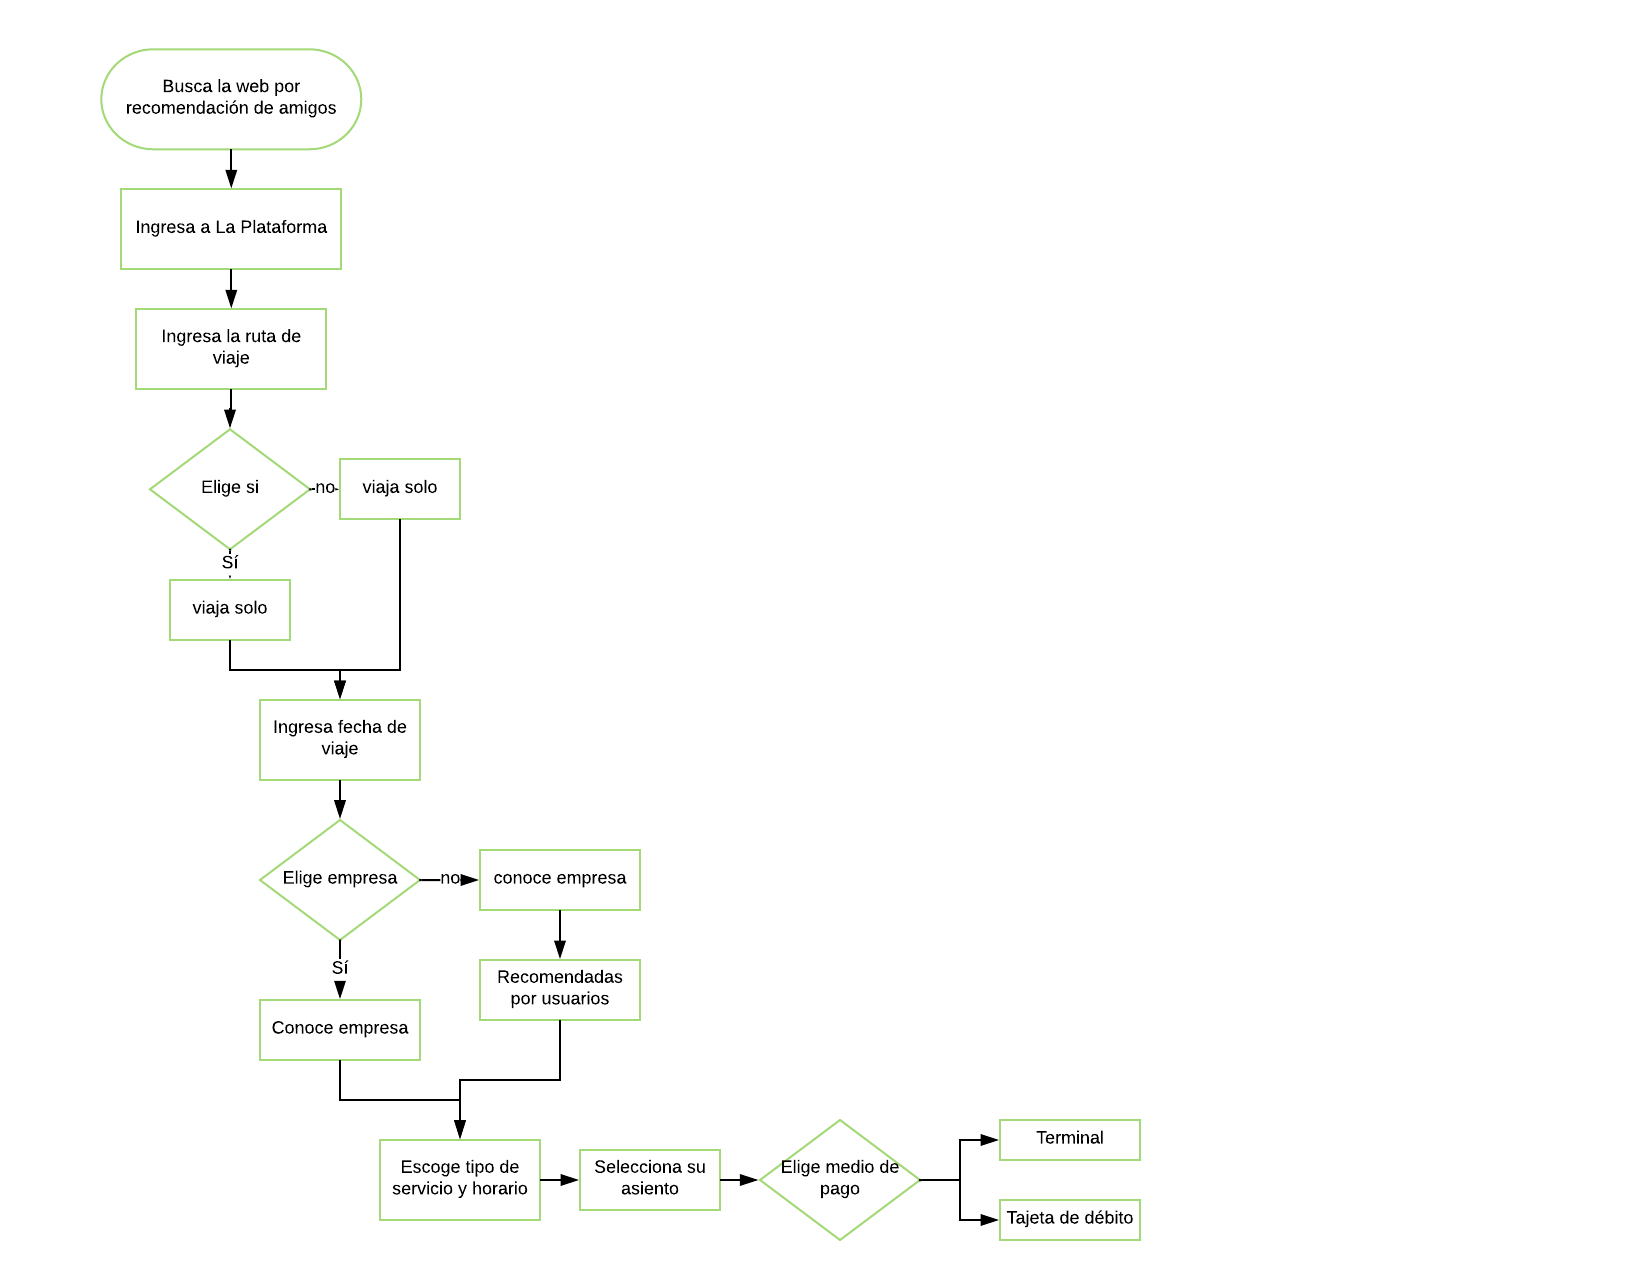
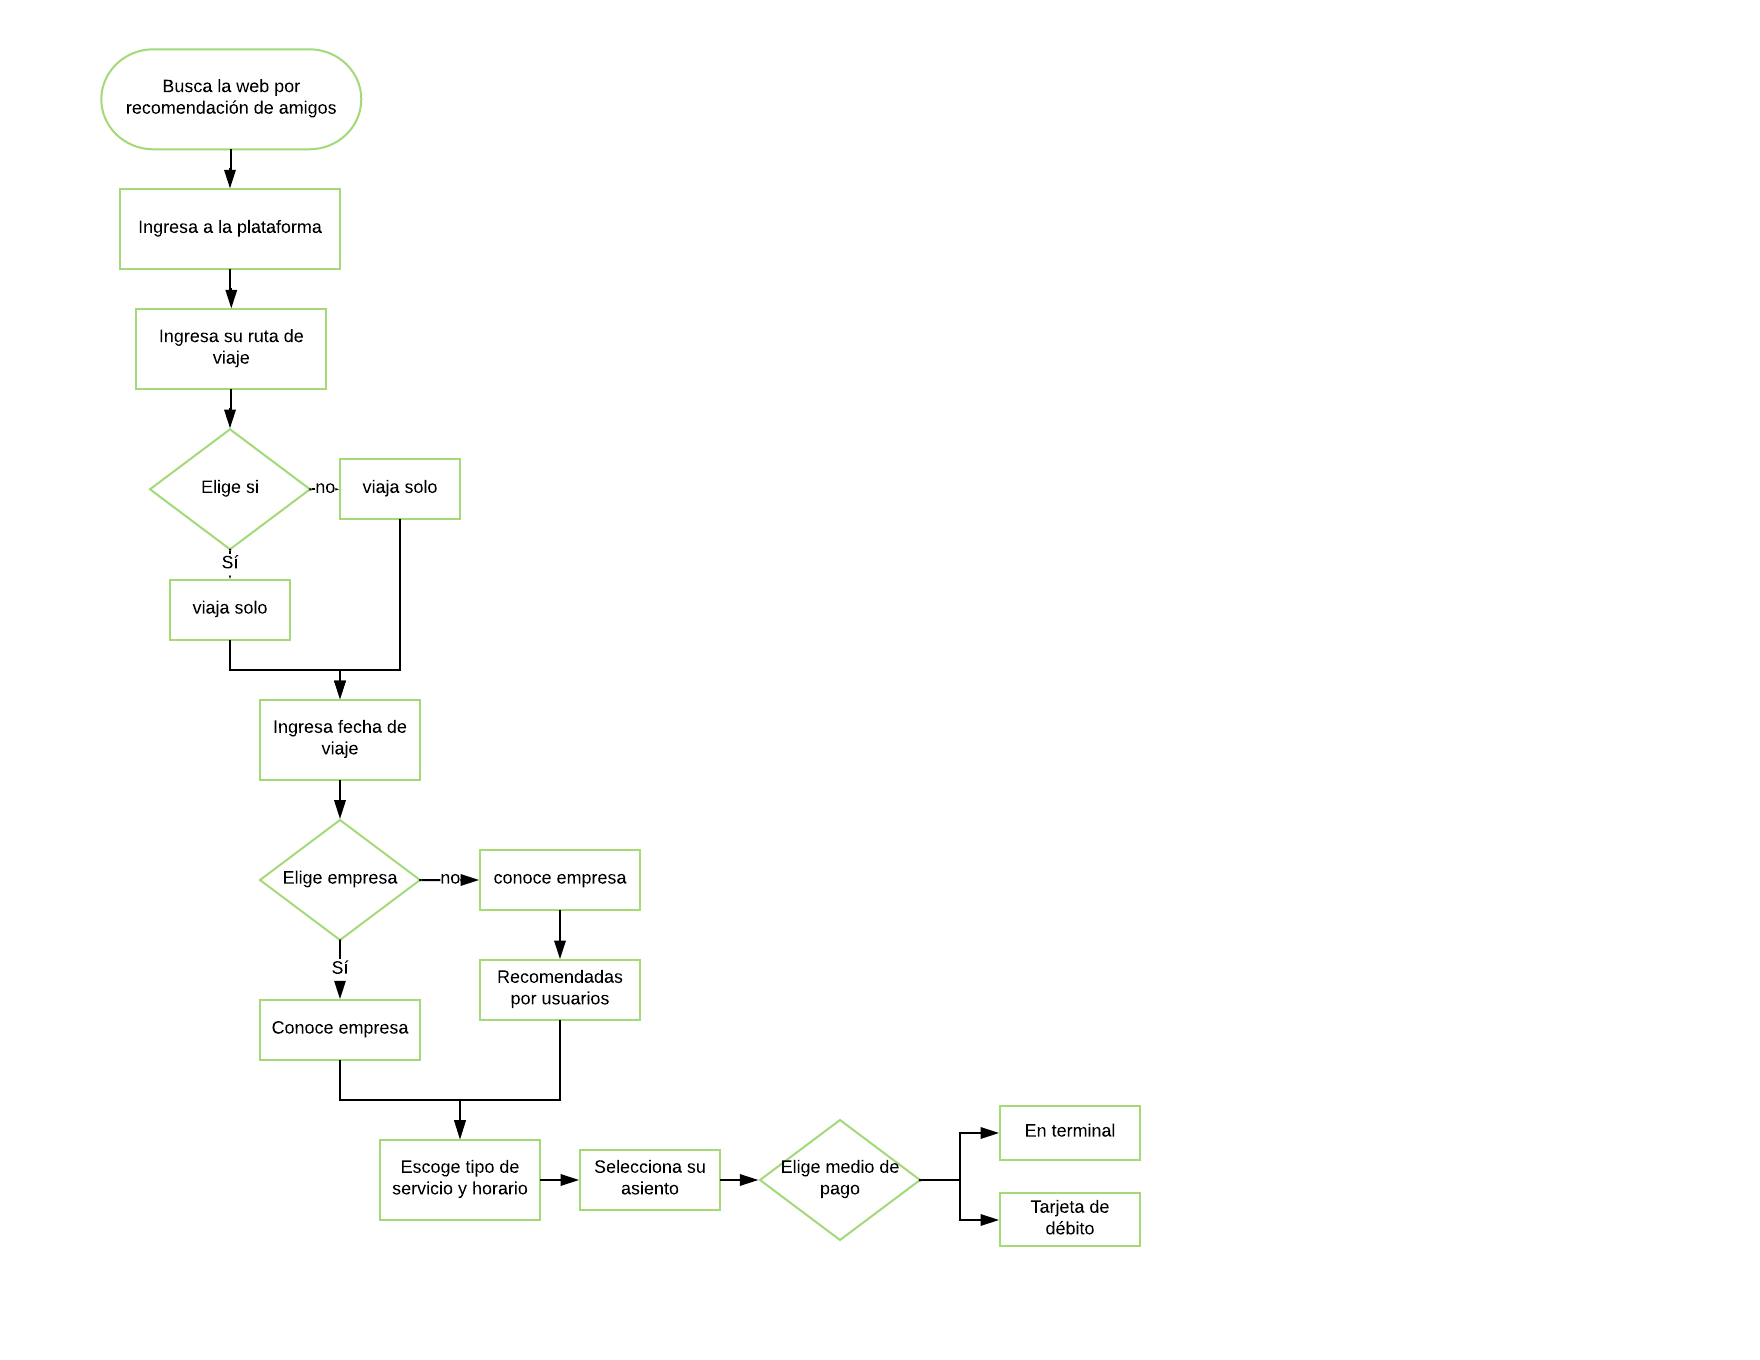
añade descripción user flow & storytelling

Changed region(s): [[0.062, 0.0307, 0.6821, 0.9512], [0.5891, 0.9512, 0.6821, 0.9819]]

diff --git a/README.md b/README.md
@@ -73,7 +73,7 @@ A partir los insights, se procedió a lo siguiente:
 
     - Juan necesita un modo fácil y rápido de comprar sus boletos de viaje por internet para ahorrar tiempo.
 
-- ### **HMW (How Might We o Como podríamos):**
+- ### **HMW (How Might We o ¿Cómo podríamos?):**
     Se formularon las siguientes preguntas con el fin de entender mejor los problemas y desarrollar mejores hipótesis. 
 
     -  ¿Cómo podríamos hacer que nuestro usuario confíe en nuestra plataforma de venta de boletos?
@@ -88,10 +88,12 @@ A partir los insights, se procedió a lo siguiente:
     - WHAT IF el usuario no quiere pagar por internet. 
 
 - ### **STORYTELLING:**
+    Nos permite entender las necesidades del usuario y empatizar con él.
 
     Enlace: [Click](https://onedrive.live.com/view.aspx?resid=AE7D39D044B5FE3A!123&ithint=file%2cdocx&app=Word&authkey=!ANVVkkEzNcjSrp4)
 
 - ### **USER FLOW:**
+    Nos da un mayor entendimiendo de la experiencia que el usuario tiene con el flujo de nuestra plataforma.
 
      ![](assets/documents/user-flow.png)
 
